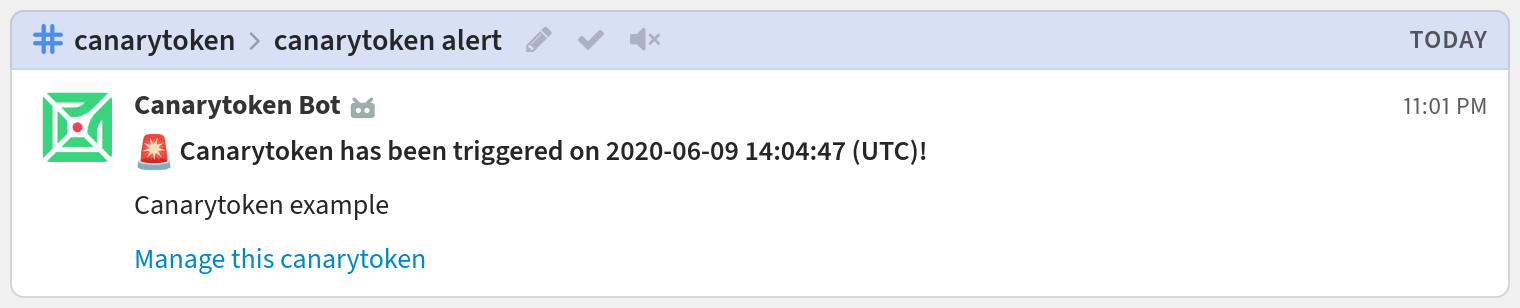
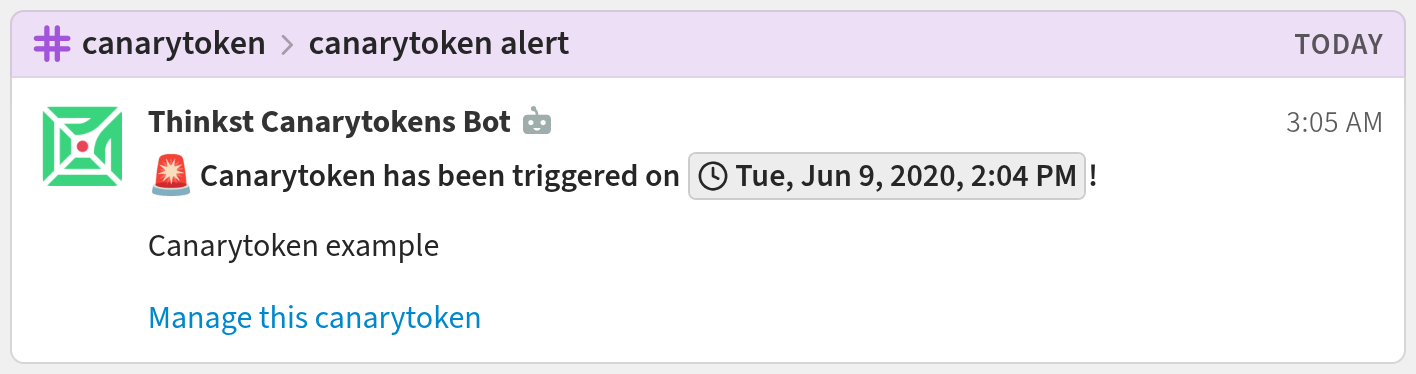
integrations/canarytoken: Use global time.

diff --git a/zerver/webhooks/canarytoken/tests.py b/zerver/webhooks/canarytoken/tests.py
@@ -8,7 +8,7 @@ class CanarytokensHookTests(WebhookTestCase):
 
     def test_canarytoken_new(self) -> None:
         expected_message = (
-            "**:alert: Canarytoken has been triggered on 2020-06-09 14:04:39!**\n\n"
+            "**:alert: Canarytoken has been triggered on <time:2020-06-09 14:04:39Z>!**\n\n"
             "Congrats! The newly saved webhook works \n\n"
             "[Manage this canarytoken](http://example.com/test/url/for/webhook)"
         )
@@ -22,8 +22,7 @@ class CanarytokensHookTests(WebhookTestCase):
 
     def test_canarytoken_real(self) -> None:
         expected_message = (
-            "**:alert: Canarytoken has been triggered on 2020-06-09 14:04:47 "
-            "(UTC)!**\n\n"
+            "**:alert: Canarytoken has been triggered on <time:2020-06-09 14:04:47Z>!**\n\n"
             "Canarytoken example \n\n"
             "[Manage this canarytoken]"
             "(https://canarytokens.org/manage?token=foo&auth=bar)"
@@ -39,8 +38,7 @@ class CanarytokensHookTests(WebhookTestCase):
     def test_canarytoken_with_specific_topic(self) -> None:
         self.url = self.build_webhook_url(topic="foo")
         expected_message = (
-            "**:alert: Canarytoken has been triggered on 2020-06-09 14:04:47 "
-            "(UTC)!**\n\n"
+            "**:alert: Canarytoken has been triggered on <time:2020-06-09 14:04:47Z>!**\n\n"
             "Canarytoken example \n\n"
             "[Manage this canarytoken]"
             "(https://canarytokens.org/manage?token=foo&auth=bar)"

diff --git a/zerver/webhooks/canarytoken/view.py b/zerver/webhooks/canarytoken/view.py
@@ -28,8 +28,10 @@ def api_canarytoken_webhook(
     https://help.canary.tools/hc/en-gb/articles/360002426577-How-do-I-configure-notifications-for-a-Generic-Webhook-
     """
     topic_name = "canarytoken alert"
+    time = message["time"].tame(check_string)
+    formatted_time = time.replace("(UTC)", "").strip() + "Z"
     body = (
-        f"**:alert: Canarytoken has been triggered on {message['time'].tame(check_string)}!**\n\n"
+        f"**:alert: Canarytoken has been triggered on <time:{formatted_time}>!**\n\n"
         f"{message['memo'].tame(check_string)} \n\n"
         f"[Manage this canarytoken]({message['manage_url'].tame(check_string)})"
     )
